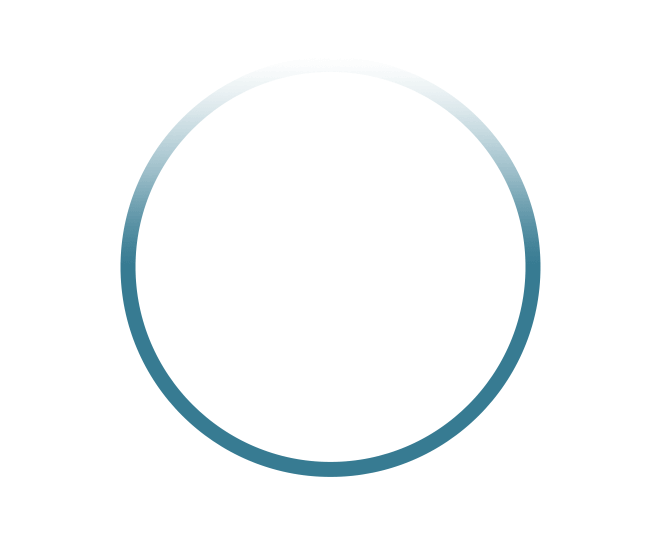
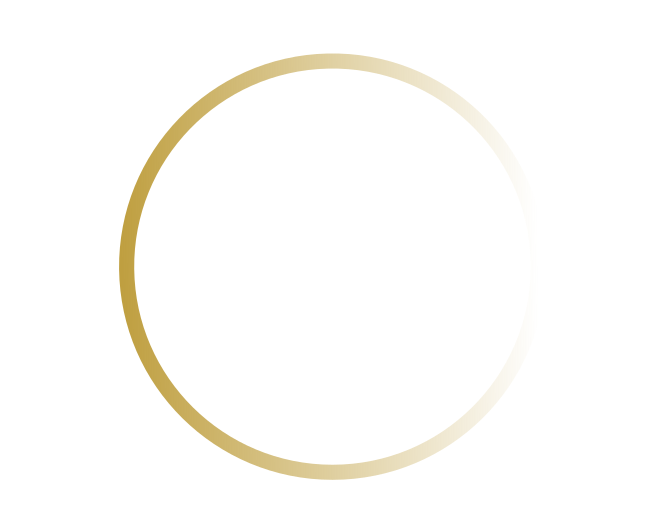
ajustes basicos

Changed region(s): [[0.1818, 0.0902, 0.8182, 0.9023]]

diff --git a/index.html b/index.html
@@ -25,7 +25,7 @@
     <!-- ia -->
 
     <!-- Pre-carga de Imágenes -->
-    <link rel="preload" as="image" href="./assets/images/hero-banner.png" />
+    <link rel="preload" as="image" href="./assets/images/hero-1.png" />
     <link
       rel="preload"
       as="image"
@@ -46,8 +46,8 @@
       as="image"
       href="./assets/images/about-circle-two1.png"
     />
-    <link rel="preload" as="image" href="./assets/images/heart-rate1.svg" />
-    <link rel="preload" as="image" href="./assets/images/calories1.svg" />
+    <link rel="preload" as="image" href="./assets/images/casa.png" />
+    <link rel="preload" as="image" href="./assets/images/edificio.png" />
   </head>
 
   <body id="top">
@@ -163,7 +163,7 @@
               />
 
               <img
-                src="./assets/images/heart-rate1.svg"
+                src="./assets/images/edificio.png"
                 width="255"
                 height="270"
                 alt="heart rate"
@@ -184,7 +184,7 @@
           <div class="container">
             <div class="about-banner has-after">
               <img
-                src="./assets/images/about-banner1.png"
+                src="./assets/images/hero-2.png"
                 width="660"
                 height="648"
                 loading="lazy"
@@ -198,7 +198,7 @@
                 height="534"
                 loading="lazy"
                 aria-hidden="true"
-                alt=""
+                alt="circulo"
                 class="circle circle-1"
               />
 
@@ -208,7 +208,7 @@
                 height="534"
                 loading="lazy"
                 aria-hidden="true"
-                alt=""
+                alt="circulo"
                 class="circle circle-2"
               />
 
@@ -226,20 +226,19 @@
               <p class="section-subtitle">Nosotros</p>
               <h2 class="h2 section-title">Quiénes Somos</h2>
               <p class="section-text">
-                VitaLink, con sede en Nueva Jersey y 5 años de experiencia,
-                conecta familias con hogares geriátricos y cuidadores
-                profesionales en Latinoamérica y Colombia. Mediante información
-                detallada, visitas virtuales y un riguroso proceso de selección,
-                facilitamos la elección del entorno ideal para adultos mayores,
-                garantizando seguridad y bienestar.
+                Somos tu puente hacia el futuro inmobiliario en Palmira y el
+                Valle del Cauca. Con más de 10 años de experiencia, nos
+                dedicamos a transformar sueños en patrimonios tangibles,
+                ofreciendo asesoría especializada en compra, venta y gestión de
+                propiedades. Nuestra pasión por la excelencia y el conocimiento
+                local nos convierte en aliados estratégicos para inversiones
+                inteligentes y hogares con alma.
               </p>
               <p class="section-text">
-                Además, ofrecemos acceso a cuidadores certificados para atención
-                ocasional o domiciliaria. Nuestra plataforma no solo empodera a
-                las familias, sino que también ayuda a instituciones y
-                profesionales a ampliar su alcance, creando una red de cuidado
-                integral y confiable. Descubre cómo VitaLink simplifica el
-                cuidado de tus seres queridos.
+                Nuestro portafolio abarca desde propiedades residenciales hasta
+                oportunidades comerciales, respaldado por procesos ágiles y
+                personalizados. Cada operación se diseña para maximizar valor y
+                minimizar riesgos, siempre con el sello cálido que nos define.
               </p>
               <div class="wrapper">
                 <div class="about-coach">
@@ -253,8 +252,8 @@
                     />
                   </figure>
                   <div>
-                    <h3 class="h3 coach-name">Denis Robinson</h3>
-                    <p class="coach-title">CEO Latam</p>
+                    <h3 class="h3 coach-name">Gustavo Alfaro</h3>
+                    <p class="coach-title">Cofounder</p>
                   </div>
                 </div>
 
@@ -286,9 +285,9 @@
           style="background-image: url('./assets/images/classes-bg.png')"
         >
           <div class="container">
-            <p class="section-subtitle">Hogares Aliados</p>
+            <p class="section-subtitle">casas registradas</p>
             <h2 class="h2 section-title text-center">
-              Listado de Centros Certificados
+              Listado inmuebles compra o renta
             </h2>
             <ul class="class-list has-scrollbar">
               <li class="scrollbar-item">
@@ -490,8 +489,10 @@
 
         <section class="section blog" id="blog" aria-label="blog">
           <div class="container">
-            <p class="section-subtitle">Cuidadores</p>
-            <h2 class="section-title text-center">Profesionales Calificados</h2>
+            <p class="section-subtitle">apartamentos registrados</p>
+            <h2 class="section-title text-center">
+              Listado inmuebles compra o renta
+            </h2>
             <ul class="blog-list has-scrollbar">
               <li class="scrollbar-item">
                 <div class="blog-card">
@@ -596,12 +597,17 @@
         <div class="container">
           <div class="footer-brand">
             <a href="#" class="logo">
-              <ion-icon name="share-social-sharp" aria-hidden="true"></ion-icon>
-              <span class="span">VitaLink</span>
+              <img
+                src="./assets/images/trinidad.png"
+                class="trinidad"
+                alt="logo trinidad"
+              />
+              <!-- <ion-icon name="share-social-sharp" aria-hidden="true"></ion-icon> -->
+              <span class="span">Trinidad</span>
             </a>
             <p class="footer-brand-text">
-              Conectamos familias con hogares geriátricos de alta calidad,
-              cuidado profesional, bienestar y seguridad para tus familiares.
+              "Innovamos con tecnología de vanguardia para garantizar
+              transparencia en cada transacción."
             </p>
             <div class="wrapper">
               <img
@@ -635,10 +641,10 @@
               <a href="#about" class="footer-link">Nosotros</a>
             </li>
             <li>
-              <a href="#class" class="footer-link">Hogares</a>
+              <a href="#class" class="footer-link">Casas</a>
             </li>
             <li>
-              <a href="#blog" class="footer-link">Cuidadores</a>
+              <a href="#blog" class="footer-link">Apartamentos</a>
             </li>
             <!-- <li>
               <a href="#" class="footer-link">Contáctanos</a>
@@ -655,7 +661,7 @@
                 <ion-icon name="location" aria-hidden="true"></ion-icon>
               </div>
               <address class="address footer-link">
-                Kukatpally New Jersey USA <br />
+                Carrera 26 # 32-21 <br />
                 Palmira Colombia
               </address>
             </li>
@@ -665,12 +671,8 @@
                 <ion-icon name="call" aria-hidden="true"></ion-icon>
               </div>
               <div>
-                <a href="tel:18001213637" class="footer-link"
-                  >1800-121-3637 USA</a
-                >
-                <a href="tel:+91552348765" class="footer-link"
-                  >+91 552 348 765 Colombia</a
-                >
+                <a href="tel:3028440095" class="footer-link">3028440095</a>
+                <a href="tel:3017416338" class="footer-link">3017416338</a>
               </div>
             </li>
 
@@ -680,10 +682,10 @@
               </div>
               <div>
                 <a href="mailto:vitalinkco@gmail.com" class="footer-link"
-                  >vitalinkco@gmail.com</a
+                  >trinidadpalmira@gmail.com</a
                 >
                 <a href="mailto:infovitalinkco@gmail.com" class="footer-link"
-                  >infovitalinkco@gmail.com</a
+                  >infotrinidadpalmira@gmail.com</a
                 >
               </div>
             </li>
@@ -760,7 +762,7 @@
       <div class="footer-bottom">
         <div class="container">
           <p class="copyright">
-            &copy; 2025 VitaLink Todos los derechos reservados. <br />
+            &copy; 2025 Trinidad Todos los derechos reservados. <br />
             Made with ❤ by
             <a
               href="https://antsoftdesign.vercel.app/"

diff --git a/about.html b/about.html
@@ -1,7 +1,7 @@
 <!DOCTYPE html>
 <html lang="es">
   <head>
-    <title>Quiénes Somos - VitaLink</title>
+    <title>Quiénes Somos - Inversiones Inmobiliarias La Trinidad</title>
     <meta charset="UTF-8" />
     <meta name="viewport" content="width=device-width, initial-scale=1.0" />
     <link rel="shortcut icon" href="./favicon.png" type="image/png" />
@@ -13,14 +13,11 @@
       <a href="index.html#about" class="return-link">Volver a Inicio</a>
     </div>
 
-    <!--    <nav>
-      <a href="index.html">Inicio</a>
-    </nav> -->
-
     <main id="acerca-de-mi">
       <header>
         <section class="video-presentation">
           <div class="video-container">
+            <!-- Reemplaza con video de propiedades o tour virtual si está disponible -->
             <iframe
               width="560"
               height="315"
@@ -31,68 +28,74 @@
               allowfullscreen
             >
             </iframe>
+            <img
+              src="./assets/images/banner-propiedades.jpg"
+              alt="Portafolio de propiedades La Trinidad"
+              class="about-image"
+            />
           </div>
         </section>
 
-        <h1>Quiénes Somos</h1>
+        <h1>Nuestra Esencia</h1>
         <img
-          src="./assets/images/video-banner1.jpg"
-          alt="Imagen representativa de VitaLink"
+          src="./assets/images/logo-trinidad-full.png"
+          alt="Logo Inversiones Inmobiliarias La Trinidad"
           class="about-image"
         />
       </header>
 
       <section>
         <p>
-          En VitaLink, líderes en soluciones geriátricas desde hace 6 años,
-          transformamos la búsqueda de cuidado especializado para adultos
-          mayores. Con base en Nueva Jersey y en plena expansión a Latinoamérica
-          —con foco en Colombia—, brindamos una plataforma innovadora que
-          combina tecnología y experiencia humana para guiar a familias en la
-          elección consciente de hogares geriátricos.
+          En <b>Inversiones Inmobiliarias La Trinidad</b>, somos tu puente hacia
+          el futuro en el sector inmobiliario de Palmira y el Valle del Cauca.
+          Con más de 10 años de experiencia, transformamos sueños en patrimonios
+          tangibles mediante asesoría especializada en compra, venta y gestión
+          de propiedades.
         </p>
 
         <section>
-          <h2>Nuestro servicio incluye:</h2>
+          <h2>Nuestros Pilares de Servicio:</h2>
           <ul>
             <li>
-              <strong>Selección personalizada de residencias:</strong> Acceso a
-              perfiles detallados, certificaciones, fotografías y visitas
-              virtuales 360° de cada institución.
+              <strong>Transacciones Seguras:</strong> Compra y venta de
+              propiedades residenciales y comerciales con respaldo legal y
+              evaluación técnica detallada.
             </li>
             <li>
-              <strong>Cuidadores profesionales:</strong> Red de expertos
-              verificados para atención domiciliaria o eventual, adaptados a
-              necesidades médicas, emocionales y culturales.
+              <strong>Arrendamientos Premium:</strong> Gestión integral de
+              contratos, desde estudios de crédito hasta mantenimiento
+              preventivo.
             </li>
             <li>
-              <strong>Asesoría integral:</strong> Equipo multidisciplinario que
-              evalúa requisitos legales, presupuesto y preferencias geográficas.
+              <strong>Inversiones Estratégicas:</strong> Identificación de
+              terrenos y proyectos con potencial de valorización en el corazón
+              del Valle.
             </li>
           </ul>
         </section>
 
         <section>
-          <h2>Más que un directorio, somos puente estratégico:</h2>
+          <h2>Diferenciales Clave:</h2>
           <ul>
             <li>
-              <strong>Para familias:</strong> Transparencia, acompañamiento en
-              decisiones críticas y seguimiento post-selección.
+              <strong>Para Compradores:</strong> Tecnología de
+              georreferenciación y tours virtuales 360° para explorar
+              propiedades desde cualquier lugar.
             </li>
             <li>
-              <strong>Para instituciones/cuidadores:</strong> Visibilidad en
-              mercados clave, herramientas digitales para gestión de perfiles y
-              conexión con pacientes idóneos.
+              <strong>Para Inversores:</strong> Análisis de mercados emergentes
+              y asesoría en portafolios diversificados para maximizar
+              rentabilidad.
             </li>
           </ul>
         </section>
 
         <p>
-          Fundada en 2019, VitaLink ha optimizado el cuidado de más de 3,200
-          adultos mayores, respaldada por alianzas con asociaciones médicas y
-          gobiernos locales. Nuestra misión es clara: democratizar el acceso a
-          opciones geriátricas éticas, donde la dignidad y la calidad de vida
-          sean prioridad.
+          Fundados en 2015, hemos facilitado más de 1.500 transacciones
+          exitosas, respaldados por alianzas con notarías líderes y herramientas
+          tecnológicas que garantizan transparencia. Nuestra misión: convertir
+          cada inversión en un legado duradero, donde la excelencia y el
+          conocimiento local sean el sello de cada operación.
         </p>
       </section>
     </main>

diff --git a/assets/css/style.css b/assets/css/style.css
@@ -282,7 +282,7 @@ body {
   transform: translate(-50%, -56%);
   width: 100%;
   z-index: -1;
-  animation: rotate360 15s linear infinite;
+  animation: rotate360 5s linear infinite;
 }
 
 @keyframes rotate360 {
@@ -439,7 +439,7 @@ body {
   /* Mantiene la proporción original */
   display: block;
   /* Elimina espacios no deseados */
-  margin: 0 auto;
+  /* margin: 0 auto; */
   /* Centra la imagen horizontalmente */
   object-fit: contain;
   /* Evita distorsión de la imagen */
